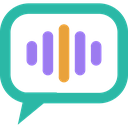
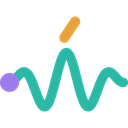
feat: own brand mark, a sound wave with a stress accent

diff --git a/scripts/brand.py b/scripts/brand.py
@@ -3,8 +3,8 @@
     uv run --no-project --with pillow python -I scripts/brand.py --font <Onest TTF>
 
 ``--font`` is the Onest variable TTF (https://github.com/google/fonts/tree/main/ofl/onest), used
-for the wordmark. The mark is our own (a speech bubble with five sound bars, one per voice), not
-the Silero logo. Writes:
+for the wordmark. The mark is our own (a sound wave with a stress mark over its crest), not the
+Silero logo. Writes:
 
 - ``assets/brand/mark.svg``                 vector source of the mark
 - ``assets/brand/logo.png``, ``dark_logo.png``  logos for the README (light and dark themes)
@@ -17,6 +17,7 @@ Images are PNG, transparent, without empty margins (as home-assistant/brands ask
 from __future__ import annotations
 
 import argparse
+import math
 from pathlib import Path
 
 from PIL import Image, ImageDraw, ImageFont
@@ -32,20 +33,28 @@ INK_DARK = "#E4E7EC"  # wordmark on dark backgrounds
 INK_ANY = "#6B7484"  # wordmark that reads on both (the app store has no dark variant)
 CANVAS = "#1B1F26"
 
-# Geometry in a unit square (the same numbers go into the SVG)
-BUBBLE = (0.08, 0.10, 0.92, 0.74)  # left, top, right, bottom of the stroke's centre line
-BUBBLE_R = 0.17  # corner radius
-BUBBLE_W = 0.075  # stroke width
-TAIL = ((0.22, 0.70), (0.17, 0.93), (0.45, 0.70))  # filled
-BAR_Y = 0.42  # centre line of the sound bars
-BAR_W = 0.075
-BARS = (  # x, height, colour
-    (0.27, 0.10, VIOLET),
-    (0.385, 0.24, VIOLET),
-    (0.50, 0.34, AMBER),
-    (0.615, 0.24, VIOLET),
-    (0.73, 0.10, VIOLET),
-)
+# Geometry in a unit square (the same numbers go into the SVG).
+# A spoken wave with a stress mark over its main crest: Silero v5_6_ru puts stresses itself.
+WAVE_X = (0.08, 0.92)  # where the wave starts and ends
+WAVE_Y = 0.60  # its rest line
+WAVE_A = 0.22  # the height of the main crest
+WAVE_PERIODS = 2.5  # the main crest in the middle, smaller ones fading out
+WAVE_W = 0.07
+DOT_R = 0.07  # violet dot at the start: the text the voice comes from
+ACCENT = ((0.485, 0.27), (0.565, 0.15))  # the stress mark, an acute accent
+ACCENT_W = 0.075
+
+
+def wave_points(n: int = 160) -> list[tuple[float, float]]:
+    """The wave in unit coordinates: a sine under a sine envelope, flat at both ends."""
+    x0, x1 = WAVE_X
+    points = []
+    for i in range(n + 1):
+        t = i / n
+        envelope = math.sin(math.pi * t)
+        y = WAVE_Y - WAVE_A * envelope * math.cos(2 * math.pi * WAVE_PERIODS * (t - 0.5))
+        points.append((x0 + (x1 - x0) * t, y))
+    return points
 
 
 def _round_line(d: ImageDraw.ImageDraw, a: tuple[float, float], b: tuple[float, float],
@@ -60,17 +69,15 @@ def mark(size: int) -> Image.Image:
     s = 2048
     img = Image.new("RGBA", (s, s), (0, 0, 0, 0))
     d = ImageDraw.Draw(img)
-    left, top, right, bottom = (v * s for v in BUBBLE)
-    w = BUBBLE_W * s
-    d.polygon([(x * s, y * s) for x, y in TAIL], fill=TEAL)
-    d.rounded_rectangle(
-        [left - w / 2, top - w / 2, right + w / 2, bottom + w / 2],
-        radius=(BUBBLE_R * s) + w / 2,
-        outline=TEAL,
-        width=round(w),
-    )
-    for x, h, color in BARS:
-        _round_line(d, (x * s, (BAR_Y - h / 2) * s), (x * s, (BAR_Y + h / 2) * s), BAR_W * s, color)
+    w = WAVE_W * s
+    points = [(x * s, y * s) for x, y in wave_points()]
+    d.line(points, fill=TEAL, width=round(w), joint="curve")
+    for x, y in points:  # smooth round joints and caps
+        d.ellipse([x - w / 2, y - w / 2, x + w / 2, y + w / 2], fill=TEAL)
+    (ax, ay), (bx, by) = ACCENT
+    _round_line(d, (ax * s, ay * s), (bx * s, by * s), ACCENT_W * s, AMBER)
+    x, y, r = WAVE_X[0] * s, WAVE_Y * s, DOT_R * s
+    d.ellipse([x - r, y - r, x + r, y + r], fill=VIOLET)
     trimmed = img.crop(img.getbbox())
     side = max(trimmed.size)
     square = Image.new("RGBA", (side, side), (0, 0, 0, 0))
@@ -81,22 +88,20 @@ def mark(size: int) -> Image.Image:
 def mark_svg() -> str:
     """The same mark as SVG (units of 1/1000)."""
     k = 1000
-    left, top, right, bottom = (v * k for v in BUBBLE)
-    w = BUBBLE_W * k
-    tail = " ".join(f"{x * k:g},{y * k:g}" for x, y in TAIL)
-    bars = "\n".join(
-        f'  <path d="M{x * k:g} {(BAR_Y - h / 2) * k:g} V{(BAR_Y + h / 2) * k:g}" stroke="{c}" />'
-        for x, h, c in BARS
-    )
-    vb_left, vb_top = left - w / 2, top - w / 2
-    vb_right, vb_bottom = right + w / 2, max(bottom + w / 2, max(y for _, y in TAIL) * k)
+    points = wave_points(60)
+    path = "M" + " L".join(f"{x * k:.1f} {y * k:.1f}" for x, y in points)
+    (ax, ay), (bx, by) = ACCENT
+    ys = [y for _, y in points]
+    pad = max(WAVE_W, ACCENT_W, 2 * DOT_R) / 2
+    vb_left = (WAVE_X[0] - DOT_R) * k
+    vb_right = (WAVE_X[1] + WAVE_W / 2) * k
+    vb_top = (min(by, min(ys)) - pad) * k
+    vb_bottom = (max(ys) + pad) * k
     return f"""<svg xmlns="http://www.w3.org/2000/svg" viewBox="{vb_left:g} {vb_top:g} {vb_right - vb_left:g} {vb_bottom - vb_top:g}">
 <title>{NAME}</title>
-<polygon points="{tail}" fill="{TEAL}" />
-<rect x="{left:g}" y="{top:g}" width="{right - left:g}" height="{bottom - top:g}" rx="{BUBBLE_R * k:g}" fill="none" stroke="{TEAL}" stroke-width="{w:g}" />
-<g stroke-width="{BAR_W * k:g}" stroke-linecap="round">
-{bars}
-</g>
+<path d="{path}" fill="none" stroke="{TEAL}" stroke-width="{WAVE_W * k:g}" stroke-linecap="round" stroke-linejoin="round" />
+<path d="M{ax * k:g} {ay * k:g} L{bx * k:g} {by * k:g}" stroke="{AMBER}" stroke-width="{ACCENT_W * k:g}" stroke-linecap="round" />
+<circle cx="{WAVE_X[0] * k:g}" cy="{WAVE_Y * k:g}" r="{DOT_R * k:g}" fill="{VIOLET}" />
 </svg>
 """  # noqa: E501
 
